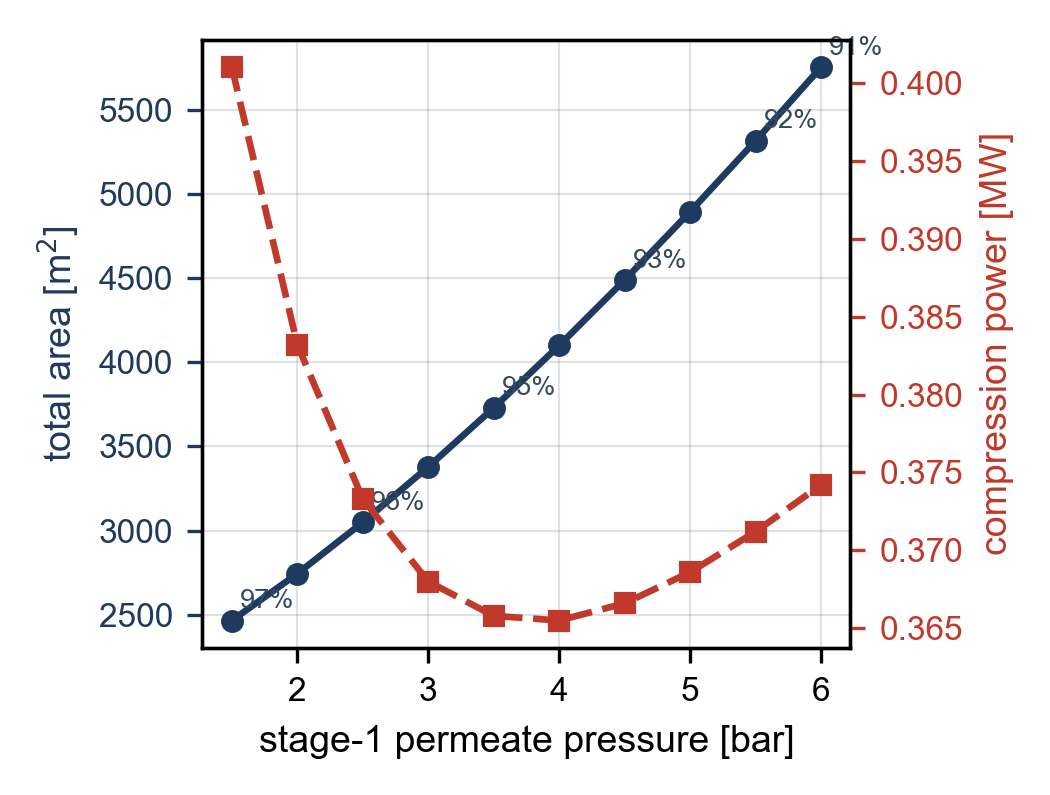
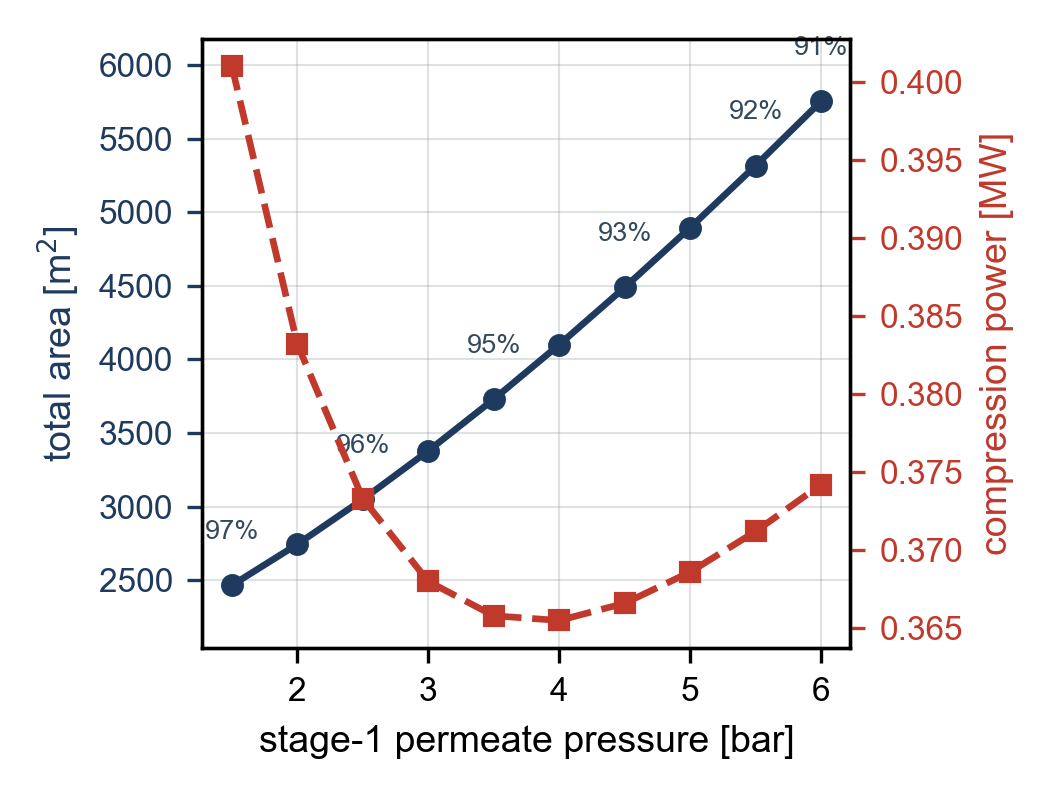
figures: displace the CH4 recovery labels in the permeate-pressure figure
The methane recovery annotations sat on the total-area markers in Fig. 14
(case_permeate). Lift them clear of the data points and add vertical headroom so
the top label is not clipped, improving readability.

diff --git a/docs/paper/figs/make_casestudy.py b/docs/paper/figs/make_casestudy.py
@@ -42,7 +42,7 @@ fig.tight_layout(); fig.savefig(os.path.join(HERE, "case_realgas.png"))
 # B: permeate pressure trade-off (COFE parametric study)
 B = load("sweepB_permP.csv")
 fig, ax = plt.subplots(figsize=FIG)
-ax.plot(B["Pp1_bar"], B["areaTot"], "o-", color=NAVY)
+ax.plot(B["Pp1_bar"], B["areaTot"], "o-", color=NAVY); ax.margins(y=0.13)
 ax.set_xlabel("stage-1 permeate pressure [bar]"); ax.set_ylabel("total area [m$^2$]", color=NAVY)
 ax.tick_params(axis="y", colors=NAVY); grid(ax)
 ax2 = ax.twinx(); ax2.plot(B["Pp1_bar"], B["power"], "s--", color=RED)
@@ -51,7 +51,8 @@ n = len(B["Pp1_bar"])
 for i in range(n):
     if i % 2 == 0 or i == n - 1:
         ax.annotate(f"{B['ch4rec'][i]:.0f}%", (B["Pp1_bar"][i], B["areaTot"][i]),
-                    fontsize=6.5, color=GREY, xytext=(2, 3), textcoords="offset points")
+                    fontsize=6.5, color=GREY, xytext=(0, 10), textcoords="offset points",
+                    ha="center", va="bottom")
 fig.tight_layout(); fig.savefig(os.path.join(HERE, "case_permeate.png"))
 
 # C: membrane selectivity
